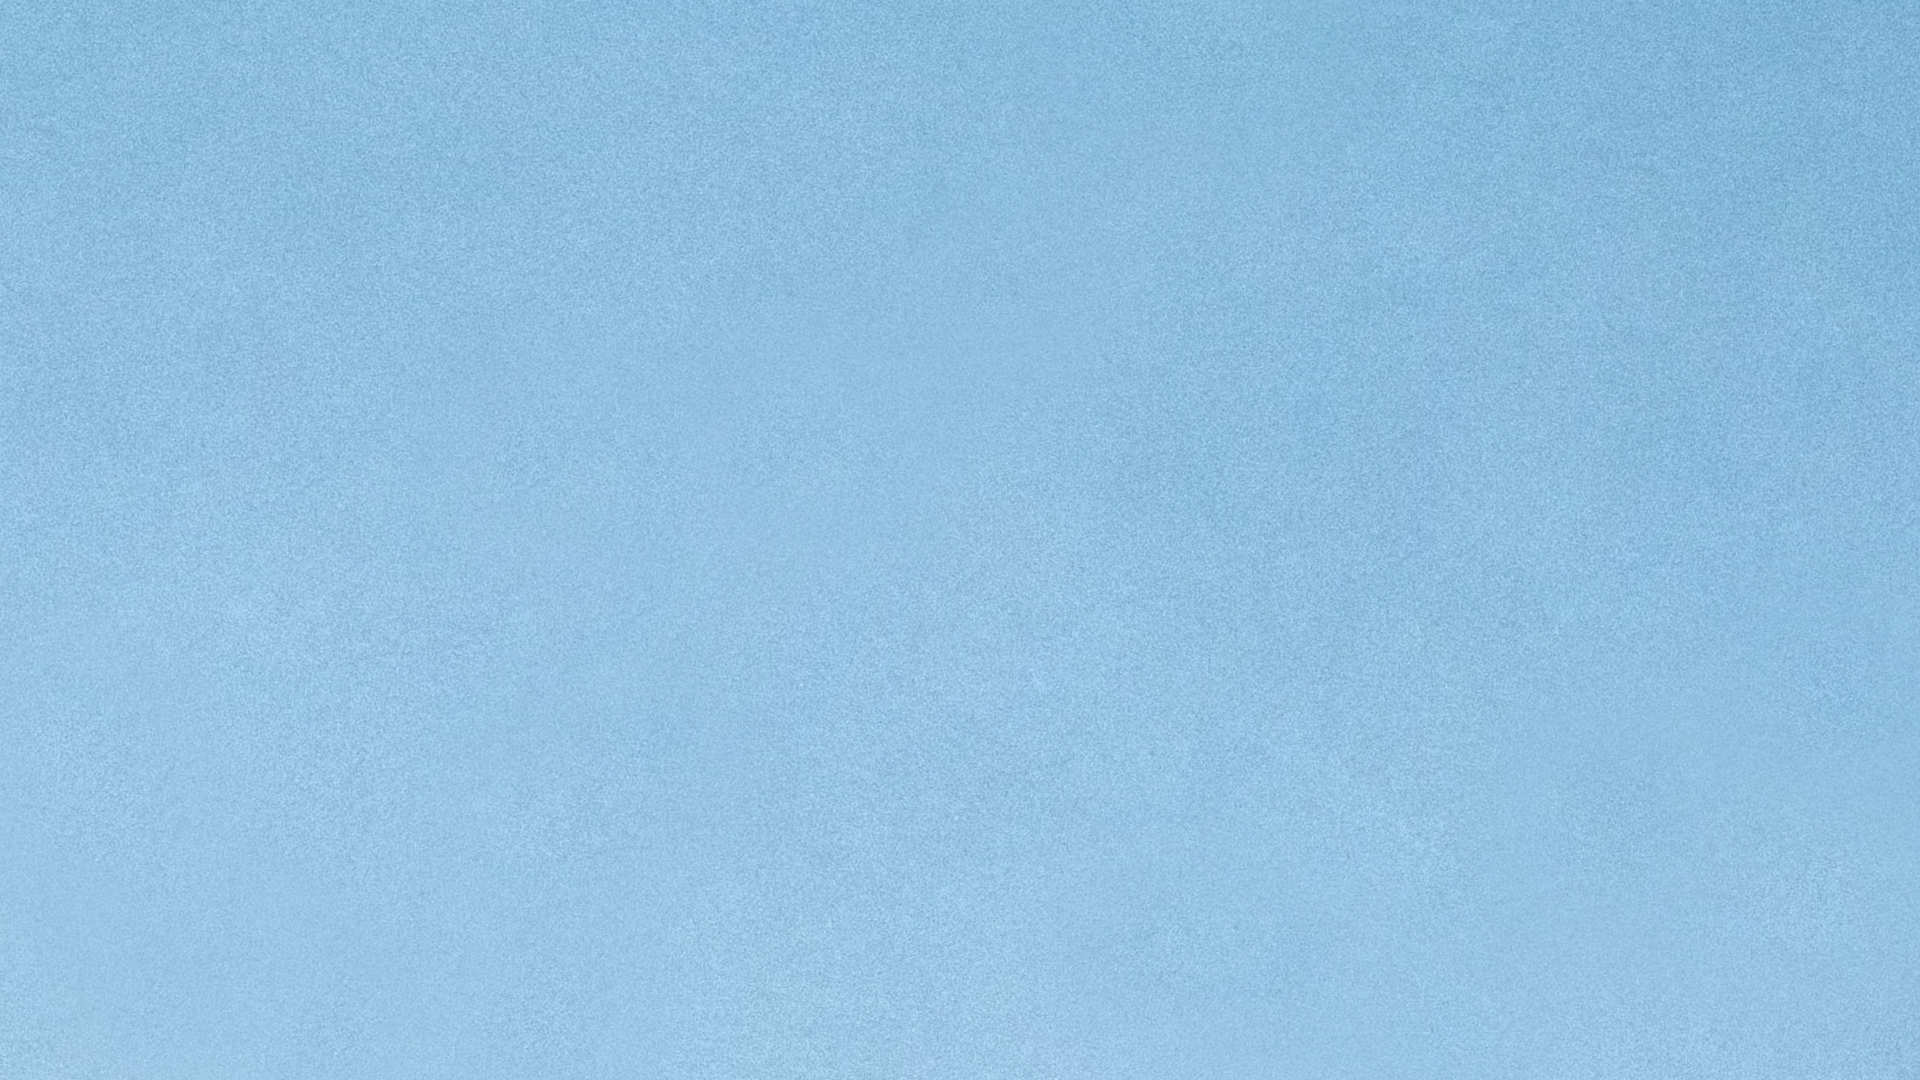
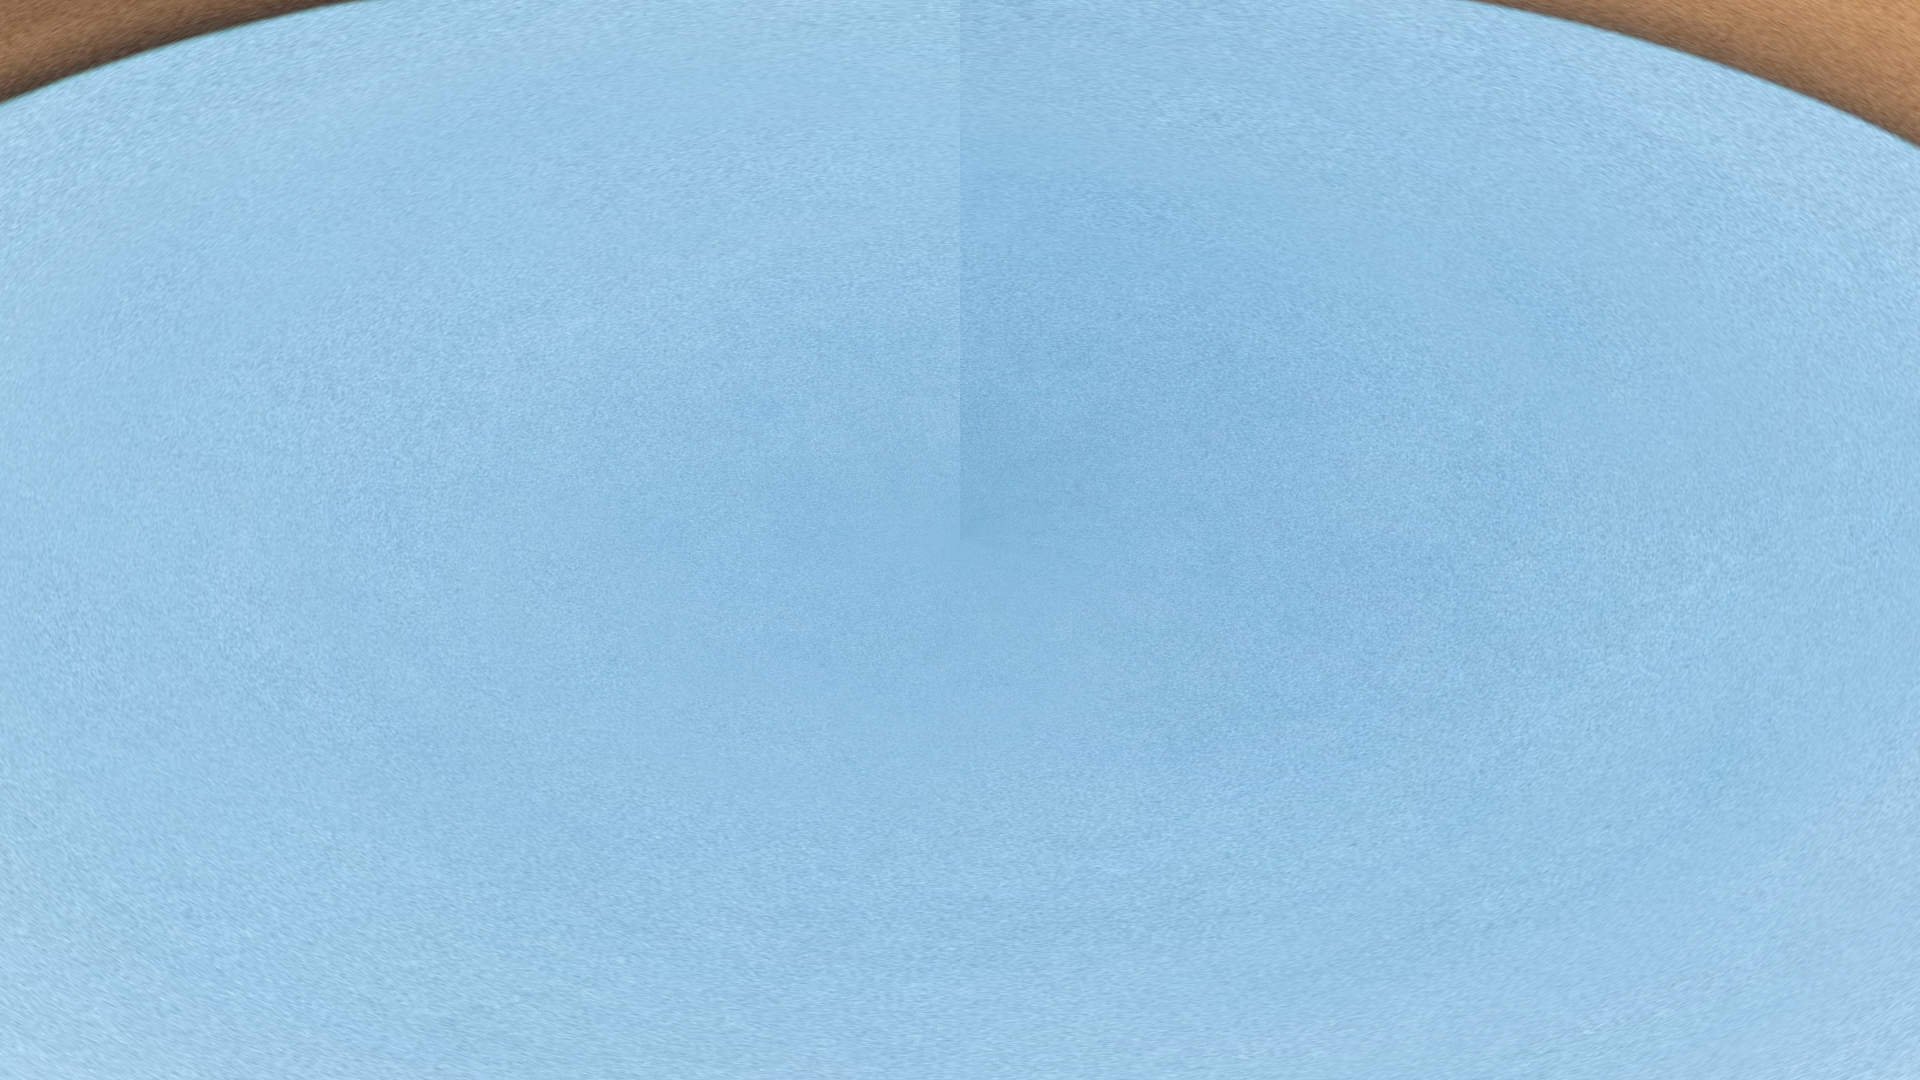
removing unnecessary bg images

diff --git a/css/main.css b/css/main.css
@@ -91,7 +91,7 @@ textarea {
 body {
   background-attachment: fixed;
   background-color: #fff;
-  background-image: url('../img/bg-image-13.jpg');
+  background-image: url('../img/bg-image-20.jpg');
   background-position: center center;
   background-repeat: no-repeat;
   background-size: cover;
